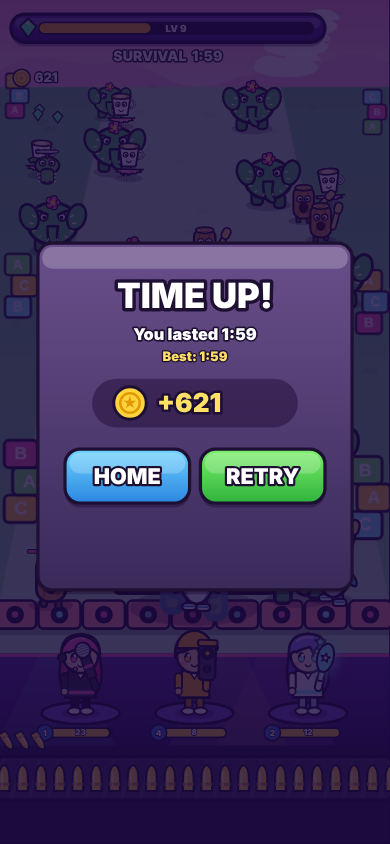
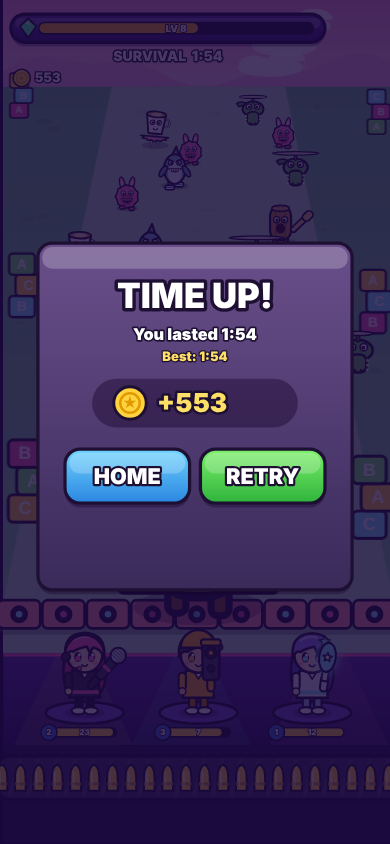
Native save backup, clearer tutorial hint, boost previews, final QA fixes
The save is mirrored to Capacitor Preferences in the iOS app and the newest
copy wins at startup, so iOS storage cleanup can't wipe progress.

Claude-Session: https://claude.ai/code/session_01QGrZc3EbQYpJckgsMPMbnD

diff --git a/src/save.ts b/src/save.ts
@@ -1,6 +1,9 @@
 // Persistent progress. Stored locally on the device — the game has no
-// accounts and sends nothing anywhere.
+// accounts and sends nothing anywhere. In the iOS app the save is mirrored
+// to native storage, which iOS never purges the way it can WebView storage.
 
+import { Capacitor } from '@capacitor/core';
+import { Preferences } from '@capacitor/preferences';
 import { HEROES, META } from './data';
 
 export interface SaveData {
@@ -18,6 +21,7 @@ export interface SaveData {
   haptics: boolean;
   tutorialDone: boolean;
   lastDaily: string; // yyyy-mm-dd of last daily reward claim
+  savedAt: number; // ms timestamp of the last write, to pick the newest copy
 }
 
 const KEY = 'idolsquad.save.v1';
@@ -42,13 +46,13 @@ function fresh(): SaveData {
     haptics: true,
     tutorialDone: false,
     lastDaily: '',
+    savedAt: 0,
   };
 }
 
-function load(): SaveData {
+function parse(raw: string | null): SaveData {
   const base = fresh();
   try {
-    const raw = localStorage.getItem(KEY);
     if (!raw) return base;
     const data = JSON.parse(raw) as Partial<SaveData>;
     return {
@@ -63,14 +67,39 @@ function load(): SaveData {
   }
 }
 
-export const save: SaveData = load();
+function readLocal() {
+  try {
+    return localStorage.getItem(KEY);
+  } catch {
+    return null;
+  }
+}
+
+export const save: SaveData = parse(readLocal());
+
+const native = Capacitor.isNativePlatform();
+
+// Called once at startup in the app: adopt the native copy if it is newer.
+export async function restoreNativeBackup() {
+  if (!native) return;
+  try {
+    const { value } = await Preferences.get({ key: KEY });
+    const backup = parse(value);
+    if (value && backup.savedAt > save.savedAt) Object.assign(save, backup);
+  } catch {
+    // Keep whatever local storage had.
+  }
+}
 
 export function persist() {
+  save.savedAt = Date.now();
+  const json = JSON.stringify(save);
   try {
-    localStorage.setItem(KEY, JSON.stringify(save));
+    localStorage.setItem(KEY, json);
   } catch {
     // Storage full or unavailable — progress for this session still works.
   }
+  if (native) Preferences.set({ key: KEY, value: json }).catch(() => {});
 }
 
 export function resetSave() {

diff --git a/src/battle.ts b/src/battle.ts
@@ -1303,10 +1303,13 @@ export class Battle implements Scene {
     const k = (t * 0.9) % 1;
     const hx = 120 + k * 480;
     const hy = y + Math.sin(k * Math.PI) * -30;
-    ctx.fillStyle = 'rgba(20,0,40,0.55)';
-    rr(ctx, 60, y - 160, W - 120, 70, 35);
+    // Hint sits over the field, clear of the heroes, pointing down at the belt.
+    const ty = this.wallY - 150;
+    ctx.fillStyle = 'rgba(20,0,40,0.6)';
+    rr(ctx, 60, ty - 40, W - 120, 120, 36);
     ctx.fill();
-    text(ctx, 'SWIPE TO SLICE AMMO!', W / 2, y - 125, 34, '#ffe066');
+    text(ctx, 'SWIPE TO SLICE AMMO!', W / 2, ty, 36, '#ffe066');
+    text(ctx, '▼ on the belt at the bottom ▼', W / 2, ty + 46, 24, '#ffffff');
     // Pointing hand
     ctx.save();
     ctx.translate(hx, hy + 30);
@@ -1442,7 +1445,7 @@ export class Battle implements Scene {
       text(ctx, `Best: ${fmtTime(save.bestSurvival)}`, W / 2, py + 210, 24, '#ffe066');
     } else {
       text(ctx, won ? `Area ${this.area} cleared!` : `Area ${this.area} · Wave ${this.wave}`, W / 2, py + 170, 30);
-      text(ctx, `${this.kills} monsters defeated`, W / 2, py + 210, 24, '#e0d4ff');
+      text(ctx, `${this.kills} monster${this.kills === 1 ? '' : 's'} defeated`, W / 2, py + 210, 24, '#e0d4ff');
     }
     rr(ctx, 170, py + 250, 380, 90, 45);
     ctx.fillStyle = 'rgba(20,0,40,0.4)';

diff --git a/ios/App/CapApp-SPM/Package.swift b/ios/App/CapApp-SPM/Package.swift
@@ -14,6 +14,7 @@ let package = Package(
         .package(url: "https://github.com/ionic-team/capacitor-swift-pm.git", from: "7.0.0"),
         .package(name: "CapacitorApp", path: "../../../node_modules/@capacitor/app"),
         .package(name: "CapacitorHaptics", path: "../../../node_modules/@capacitor/haptics"),
+        .package(name: "CapacitorPreferences", path: "../../../node_modules/@capacitor/preferences"),
         .package(name: "CapacitorSplashScreen", path: "../../../node_modules/@capacitor/splash-screen"),
         .package(name: "CapacitorStatusBar", path: "../../../node_modules/@capacitor/status-bar")
     ],
@@ -25,6 +26,7 @@ let package = Package(
                 .product(name: "Cordova", package: "capacitor-swift-pm"),
                 .product(name: "CapacitorApp", package: "CapacitorApp"),
                 .product(name: "CapacitorHaptics", package: "CapacitorHaptics"),
+                .product(name: "CapacitorPreferences", package: "CapacitorPreferences"),
                 .product(name: "CapacitorSplashScreen", package: "CapacitorSplashScreen"),
                 .product(name: "CapacitorStatusBar", package: "CapacitorStatusBar")
             ]

diff --git a/src/menu.ts b/src/menu.ts
@@ -374,7 +374,7 @@ export class Home implements Scene {
       panel(ctx, 30, y, W - 60, rowH - 14, '#7b4fd0', '#4a2596', 22);
       text(ctx, m.name, 60, y + rowH * 0.3, 30, '#fff', 'left');
       text(ctx, `Lv ${lvl}`, 60 + measure(ctx, m.name, 30) + 20, y + rowH * 0.3, 22, '#ffe066', 'left');
-      text(ctx, lvl ? m.text(lvl) : m.text(1).replace(/\d+/, '0'), 60, y + rowH * 0.62, 22, '#e0d4ff', 'left');
+      text(ctx, lvl ? m.text(lvl) : `Next: ${m.text(1)}`, 60, y + rowH * 0.62, 22, '#e0d4ff', 'left');
       const cost = metaCost(m, lvl);
       const b: Button = {
         x: W - 260, y: y + 14, w: 210, h: rowH - 42, label: max ? 'MAX' : `${cost}`, color: 'green', disabled: max,

diff --git a/src/main.ts b/src/main.ts
@@ -1,10 +1,13 @@
 import { engine } from './engine';
 import { Home } from './menu';
 import { initNative } from './native';
+import { restoreNativeBackup } from './save';
 
-engine.init(document.getElementById('game') as HTMLCanvasElement);
-engine.replace(new Home());
-initNative();
+restoreNativeBackup().finally(() => {
+  engine.init(document.getElementById('game') as HTMLCanvasElement);
+  engine.replace(new Home());
+  initNative();
+});
 
 // Hooks for automated playtesting in a headless browser.
 const w = window as unknown as { __engine: typeof engine; __start: (a: number, s?: boolean) => void };

diff --git a/ROADMAP.md b/ROADMAP.md
@@ -13,11 +13,13 @@ unchecked item each iteration.
 - [x] Home: area select, squad roster (unlock / level up / pick team), boosts shop
 - [x] Survival mode (unlocks after area 5), daily gift, settings
 - [x] Synthesized SFX + music, haptics hook
-- [~] Balance pass across all 30 areas (automated sim) — worlds 1–2 tuned, sim running for world 3
+- [x] Balance pass across all 30 areas (automated sim, fast + casual player bots)
 - [x] Polish: home screen layout on tall phones, belt look, more juice
 - [x] Boss attack patterns (spawn minions / charge)
-- [ ] Monster codex / collection screen
-- [ ] Achievements via Game Center (optional)
+- [x] Star ratings per area (replay value)
+- [x] Save mirrored to native storage so iOS can't purge progress
+- [ ] (post-launch) Monster codex / collection screen
+- [ ] (post-launch) Achievements via Game Center
 
 ## iOS packaging
 - [x] Capacitor iOS project (bundle id, portrait lock, status bar hidden)
@@ -31,3 +33,8 @@ unchecked item each iteration.
 - [x] Privacy policy page (no data collected) + support page
 - [x] Age rating answers, App Privacy "Data Not Collected"
 - [x] Step-by-step submission guide (Xcode archive → TestFlight → review)
+
+## Needs you (on a Mac)
+- [ ] Apple Developer Program membership
+- [ ] Set your bundle ID in `capacitor.config.ts`, replace `SUPPORT_EMAIL` in `store/*.html`
+- [ ] Follow `store/SUBMISSION_GUIDE.md`: test on device → archive → TestFlight → submit

diff --git a/README.md b/README.md
@@ -16,4 +16,17 @@ npm run dev      # http://localhost:5173 — use your browser's phone emulation
 npm run build    # production bundle in dist/
 ```
 
-See `ROADMAP.md` for progress toward App Store submission.
+## iOS
+
+```bash
+npm run ios:sync   # build + copy into the Xcode project (run on a Mac)
+npm run ios:open   # open in Xcode
+```
+
+App Store listing, privacy/support pages, screenshots and the full
+step-by-step publishing guide are in `store/` — start with
+`store/SUBMISSION_GUIDE.md`. Regenerate art/screenshots with
+`npm run assets` and `node scripts/make-screenshots.cjs` while
+`npm run dev` is running.
+
+See `ROADMAP.md` for status.
